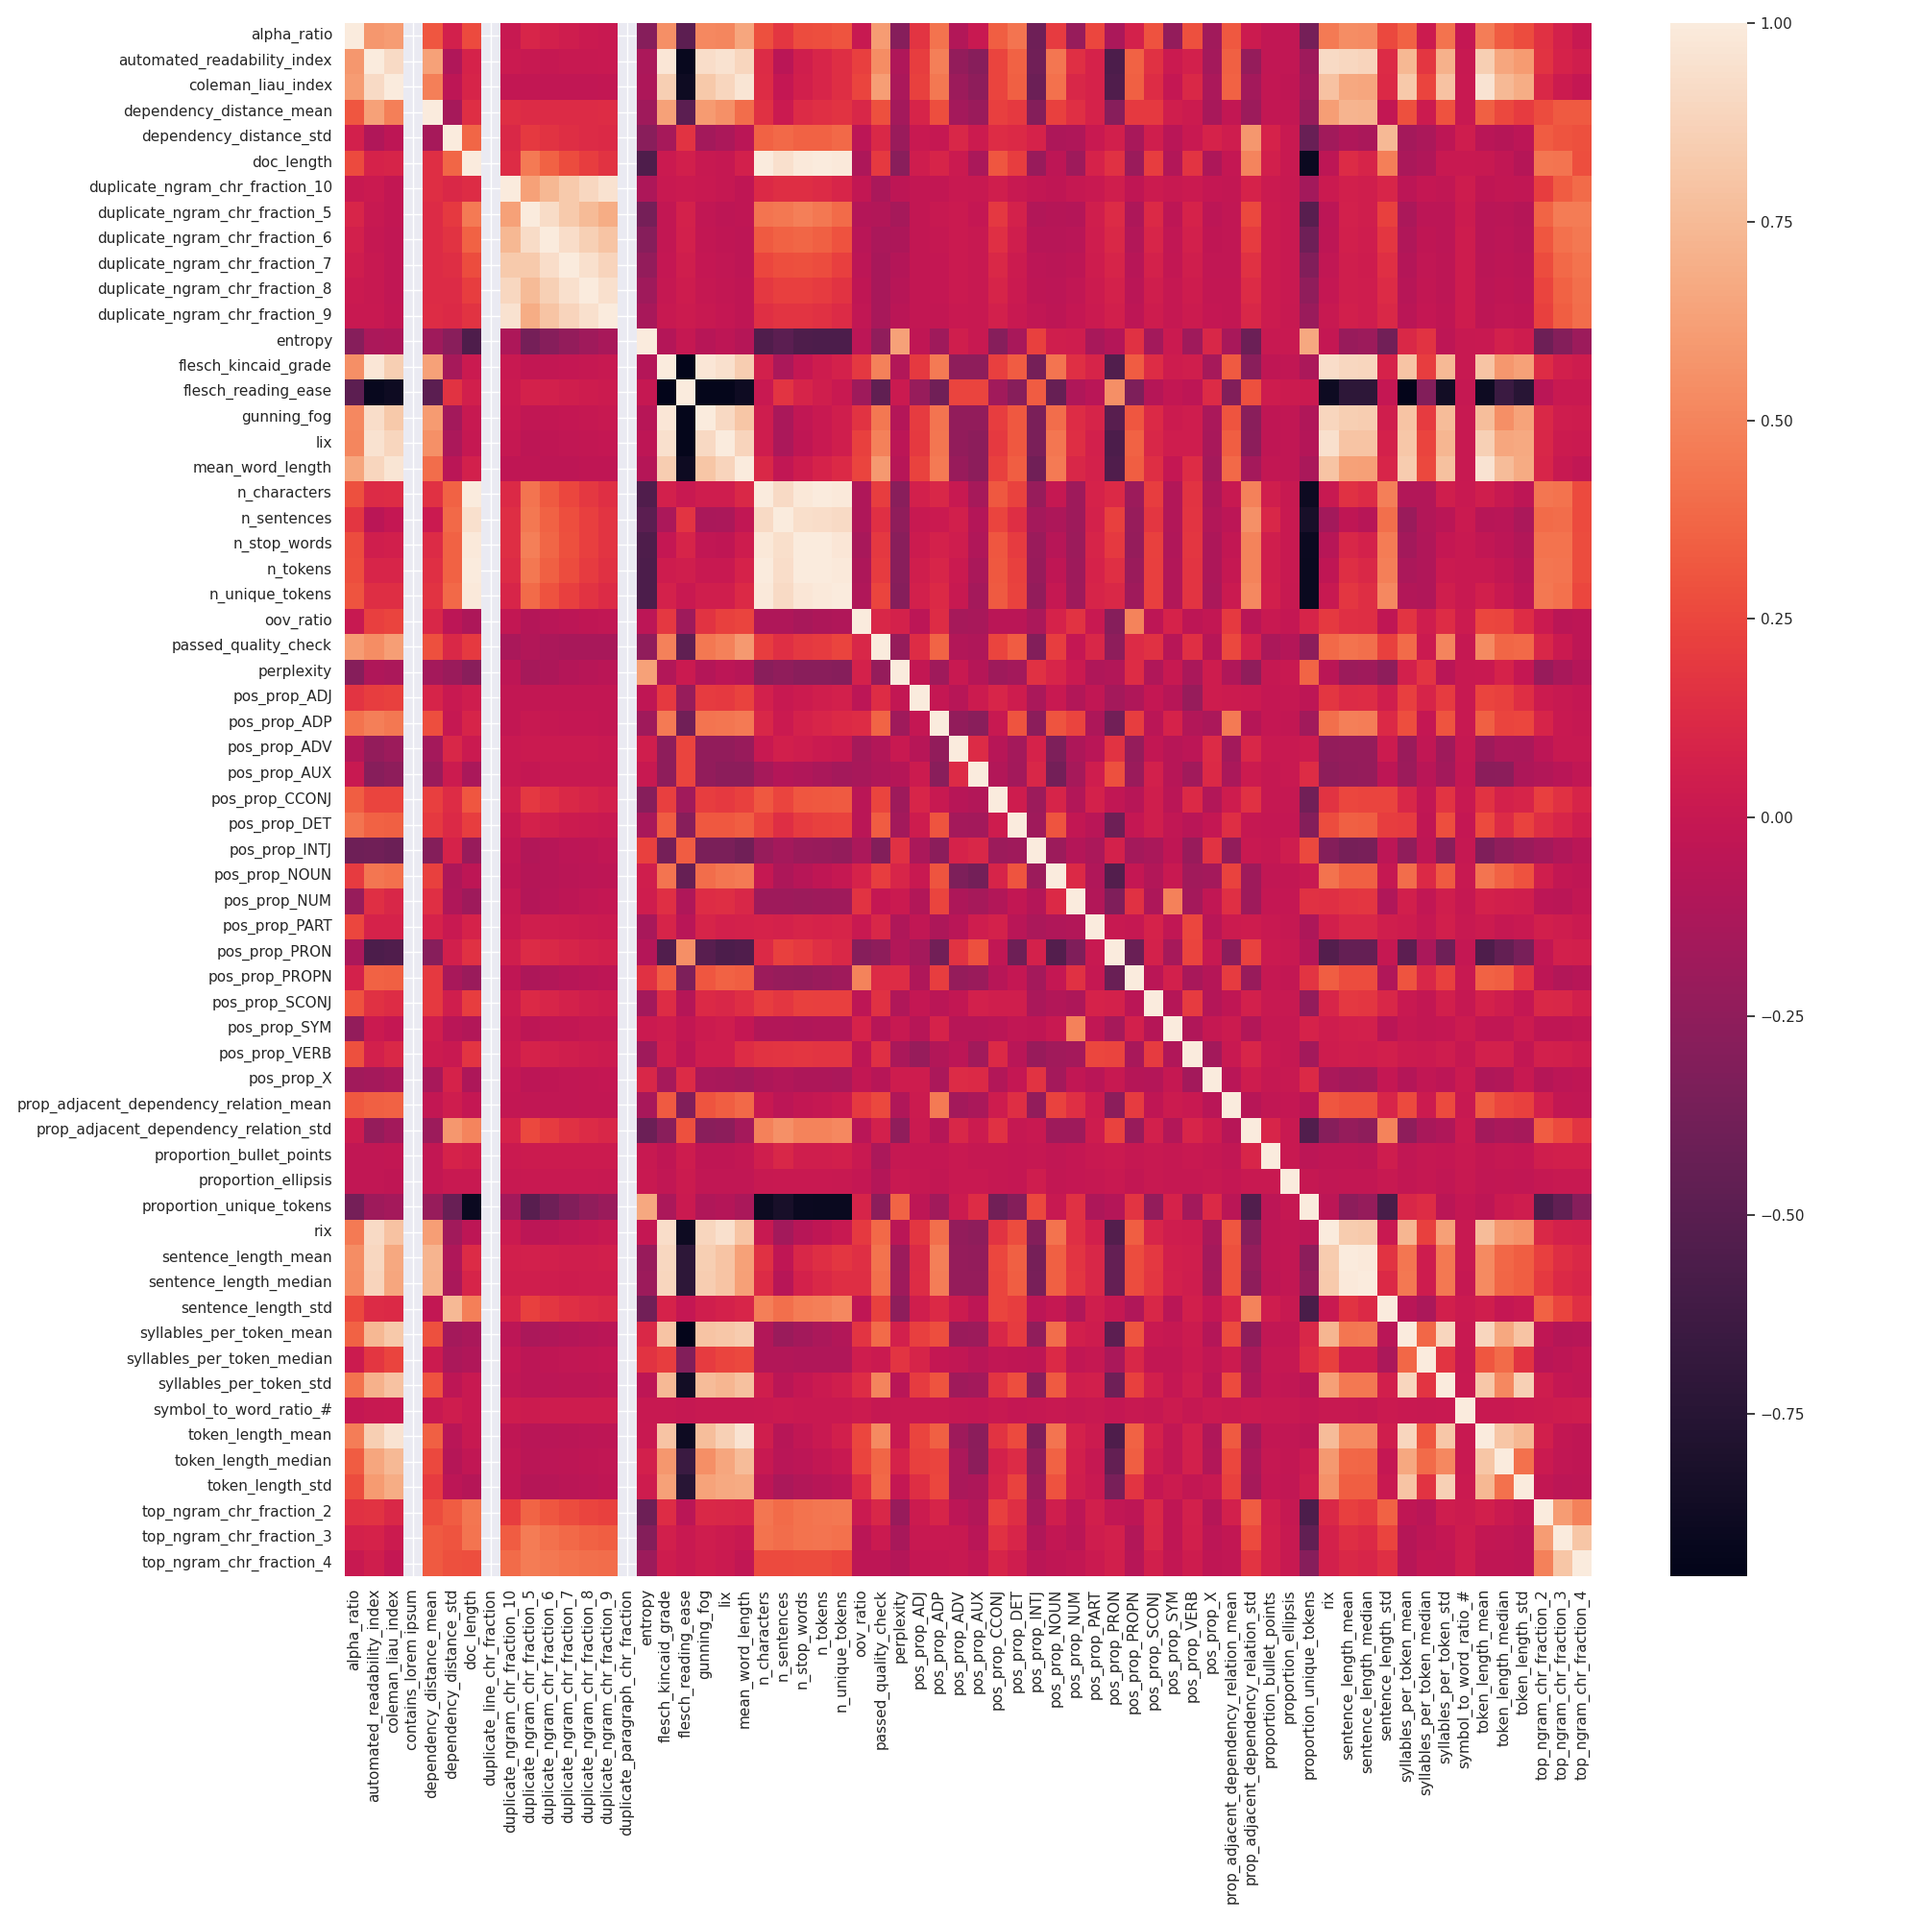
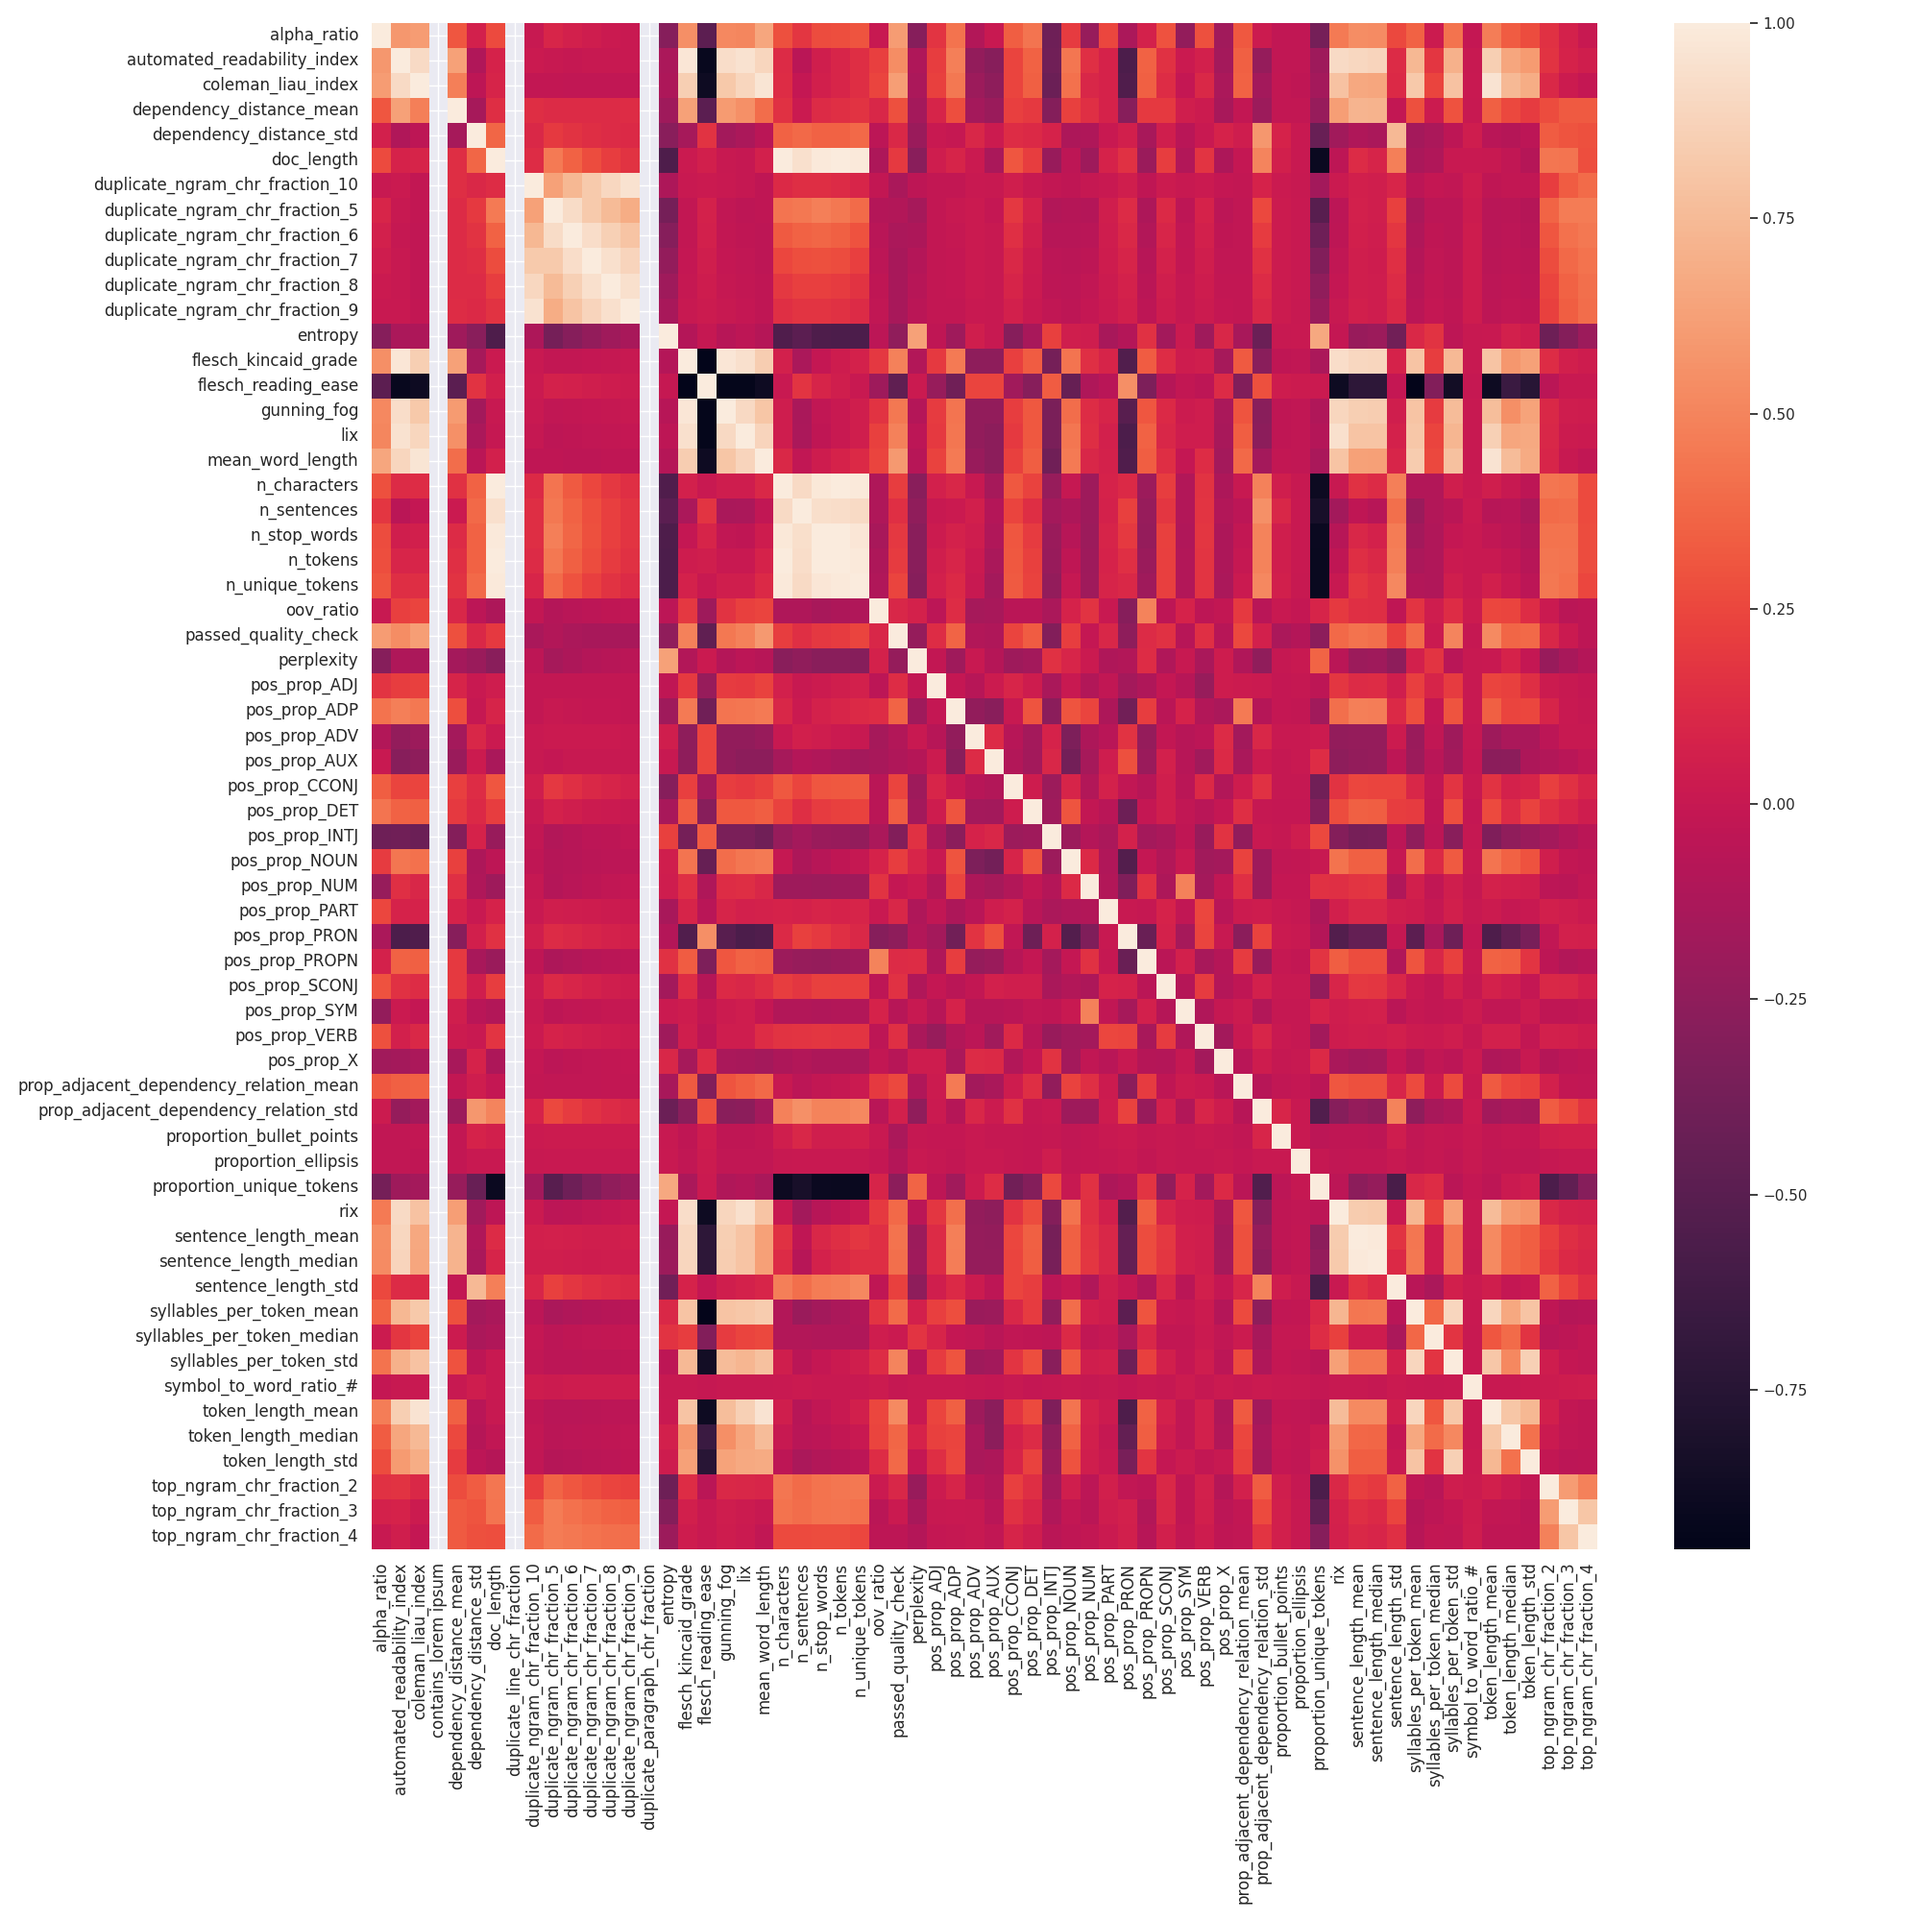
fix: adjust font size for plots, add black/isort formatting to script

diff --git a/src/metrics/heatmaps.py b/src/metrics/heatmaps.py
@@ -1,31 +1,37 @@
-'''
+"""
 create correlation heat maps 
-'''
+"""
+
 import pathlib
-import pandas as pd
-import seaborn as sns
+import sys
 
 import matplotlib.pyplot as plt
 import numpy as np
+import pandas as pd
+import seaborn as sns
 
-import sys
 sys.path.append(str(pathlib.Path(__file__).parents[2]))
 from src.utils.cols_to_drop import get_cols_to_drop
 
-def create_corrM(df, save_dir=None, file_name=None):
+
+def create_corrM(df, save_dir=None, file_name=None, fontsize=12, fontweight=None):
     # create correlation matrix
     corrM = df.corr()
 
     # plot
-    sns.set_theme(rc={'figure.figsize':(20, 20)})
-    # drop na from corrM 
+    sns.set_theme(rc={"figure.figsize": (20, 20)})
+    # drop na from corrM
     corrMplot = sns.heatmap(corrM.dropna(how="all"))
 
-    # tight 
+    # make labels bigger and bold
+    plt.xticks(fontsize=fontsize, fontweight=fontweight)
+    plt.yticks(fontsize=fontsize, fontweight=fontweight)
+
+    # tight
     plt.tight_layout()
 
     # save plot
-    if save_dir and file_name: 
+    if save_dir and file_name:
         save_dir.mkdir(parents=True, exist_ok=True)
         corrMplot.get_figure().savefig(save_dir / file_name)
 
@@ -35,10 +41,10 @@ def create_corrM(df, save_dir=None, file_name=None):
     return corrM, corrMplot
 
 
-def main(): 
+def main():
     path = pathlib.Path(__file__)
     datapath = path.parents[2] / "datasets_complete" / "metrics"
-    
+
     temp = 1
 
     # dirs based on temp
@@ -52,7 +58,7 @@ def main():
         / f"temp_{temp}"
         / "train_metrics.parquet"
     )
-    
+
     # filter to only include one dataset
     train_df = pd.read_parquet(datapath)
 
@@ -61,13 +67,46 @@ def main():
     cols_to_drop = get_cols_to_drop()
     features = [feat for feat in all_features if feat not in cols_to_drop]
 
-    create_corrM(train_df[features], savedir, f"heatmap_temp{temp}.png")
+    create_corrM(
+        train_df[features],
+        savedir,
+        f"heatmap_temp{temp}.png",
+        fontsize=12,
+        fontweight=None,
+    )
 
-    # subset features 
-    subset_features = ["alpha_ratio", "proportion_unique_tokens", "n_sentences", "n_unique_tokens", "doc_length", "rix", "gunning_fog", "pos_prop_NOUN", "pos_prop_NUM", "perplexity", "sentence_length_mean", "proportion_ellipsis", "pos_prop_SCONJ", "syllables_per_token_mean", "dependency_distance_mean", "pos_prop_VERB", "flesch_reading_ease", "mean_word_length", "oov_ratio", "entropy"]
+    # subset features
+    subset_features = [
+        "alpha_ratio",
+        "proportion_unique_tokens",
+        "n_sentences",
+        "n_unique_tokens",
+        "doc_length",
+        "rix",
+        "gunning_fog",
+        "pos_prop_NOUN",
+        "pos_prop_NUM",
+        "perplexity",
+        "sentence_length_mean",
+        "proportion_ellipsis",
+        "pos_prop_SCONJ",
+        "syllables_per_token_mean",
+        "dependency_distance_mean",
+        "pos_prop_VERB",
+        "flesch_reading_ease",
+        "mean_word_length",
+        "oov_ratio",
+        "entropy",
+    ]
     subset_features = sorted(subset_features)
 
-    create_corrM(train_df[subset_features], savedir, f"heatmap_temp{temp}_subset.png")
+    create_corrM(
+        train_df[subset_features],
+        savedir,
+        f"heatmap_temp{temp}_subset.png",
+        fontsize=18,
+        fontweight="bold",
+    )
 
 
 if __name__ == "__main__":
